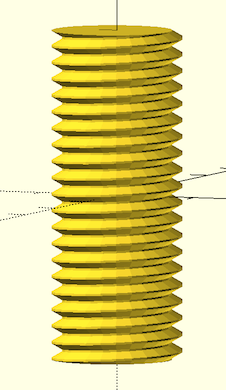
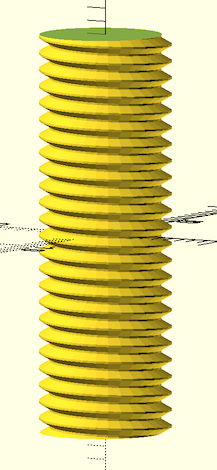
Fixed threading examples and images to match.

diff --git a/threading.scad.md b/threading.scad.md
@@ -42,11 +42,12 @@ thread\_depth | Depth of threads.  Default: pitch/2
 thread\_angle | Trapezoidal angle of threads.  Default: 15 degrees.
 starts        | The number of lead starts.  Default: 1
 left\_handed  | If true, create left-handed threads.  Default: false
+bevel         | If true, bevel the thread ends.  Default: false
 center        | If true (default), centers rod at origin.  If false, sits it on top of the XY plane.
 
 Example:
 
-	trapezoidal_threaded_rod(d=10, l=100, pitch=5, thread_depth=2, thread_angle=30);
+    trapezoidal_threaded_rod(l=25, d=10, pitch=2, thread_angle=15, starts=3, $fa=1, $fs=1);
 
 ![trapezoidal\_threaded\_rod](trapezoidal_threaded_rod.png)
 
@@ -68,14 +69,15 @@ h             | Height/Thickness of the nut.
 pitch         | Thread pitch.
 thread\_depth | Depth of threads.  Default = pitch/2
 thread\_angle | Trapezoidal angle of threads.  Default = 15 degrees.
-starts        | The number of lead starts.  Default = 1
 left\_handed  | If true, create left-handed threads.  Default = false
+starts        | The number of lead starts.  Default = 1
+bevel         | If true, bevel the threaded holes.  Default: true
 slop          | Slop to make the printed parts fit tightly.  Default = 0.2
 
 
 Examples:
 
-	trapezoidal_threaded_nut(od=17.4, id=10.5, h=10, pitch=3.175, thread_depth=1, slop=0.15);
+    trapezoidal_threaded_nut(od=17.4, id=10, h=10, pitch=2, thread_angle=15, starts=3, $fa=1, $fs=1);
 
 ![trapezoidal\_threaded\_nut](trapezoidal_threaded_nut.png)
 
@@ -94,10 +96,11 @@ d             | Outer diameter of threaded rod.
 l             | Length of threaded rod.
 pitch         | Thread pitch.
 left\_handed  | If true, create left-handed threads.  Default = false
+bevel         | If true, bevel the thread ends.  Default: false
 
 Example:
 
-	threaded_rod(d=10, l=100, pitch=5, left_handed=true);
+    threaded_rod(d=10, l=30, pitch=1.25, left_handed=true);
 
 ![threaded\_rod](threaded_rod.png)
 
@@ -113,12 +116,13 @@ id            | Diameter of threaded rod to make a nut for.
 h             | Height/Thickness of the nut.
 pitch         | Thread pitch.
 left\_handed  | If true, create left-handed threads.  Default = false
+bevel         | If true, bevel the threaded holes.  Default: false
 slop          | Slop to make the printed parts fit tightly.  Default = 0.2
 
 
 Examples:
 
-	threaded_nut(od=17.4, id=10.5, h=10, pitch=3.175, slop=0.15);
+    threaded_nut(od=16, id=8, l=8, pitch=1.25, left_handed=true, slop=0.2, $fa=1, $fs=1);
 
 ![threaded\_nut](threaded_nut.png)
 
@@ -140,10 +144,11 @@ thread\_depth | Depth of threads.  Default = pitch/2
 thread\_angle | Trapezoidal angle of threads.  Default = 14.5 degrees.
 starts        | The number of lead starts.  Default = 1
 left\_handed  | If true, create left-handed threads.  Default = false
+bevel         | If true, bevel the thread ends.  Default: false
 
 Example:
 
-	acme_threaded_rod(d=10, l=100, pitch=5, thread_depth=2, thread_angle=30);
+    acme_threaded_rod(d=10, l=40, pitch=2, starts=3, $fa=1, $fs=1);
 
 ![acme\_threaded\_rod](acme_threaded_rod.png)
 
@@ -162,12 +167,13 @@ thread\_depth | Depth of threads.  Default = pitch/2
 thread\_angle | Trapezoidal angle of threads.  Default = 14.5 degrees.
 starts        | The number of lead starts.  Default = 1
 left\_handed  | If true, create left-handed threads.  Default = false
+bevel         | If true, bevel the threaded holes.  Default: false
 slop          | Slop to make the printed parts fit tightly.  Default = 0.2
 
 
 Examples:
 
-	acme_threaded_nut(od=17.4, id=10.5, h=10, pitch=3.175, thread_depth=1, slop=0.15);
+    acme_threaded_nut(od=16, id=10, h=10, pitch=2, starts=3, slop=0.2, $fa=1, $fs=1);
 
 ![acme\_threaded\_nut](acme_threaded_nut.png)
 
@@ -186,11 +192,12 @@ d             | Outer diameter of threaded rod.
 l             | Length of threaded rod.
 pitch         | Thread pitch.
 left\_handed  | If true, create left-handed threads.  Default = false
+bevel         | If true, bevel the thread ends.  Default: false
 starts        | The number of lead starts.  Default = 1
 
 Example:
 
-	metric_trapezoidal_threaded_rod(d=10, l=100, pitch=5, left_handed=true);
+    metric_trapezoidal_threaded_rod(d=10, l=30, pitch=2, left_handed=true, $fa=1, $fs=1);
 
 ![metric\_trapezoidal\_threaded\_rod](metric_trapezoidal_threaded_rod.png)
 
@@ -206,13 +213,14 @@ id            | Diameter of threaded rod to make a nut for.
 h             | Height/Thickness of the nut.
 pitch         | Thread pitch.
 left\_handed  | If true, create left-handed threads.  Default = false
+bevel         | If true, bevel the threaded holes.  Default: false
 starts        | The number of lead starts.  Default = 1
 slop          | Slop to make the printed parts fit tightly.  Default = 0.2
 
 
 Examples:
 
-	metric_trapezoidal_threaded_nut(od=17.4, id=12, h=16, pitch=2, left_handed=true, starts=2, slop=0.15);
+    metric_trapezoidal_threaded_nut(od=16, d=10, h=10, pitch=2, left_handed=true, bevel=true, $fa=1, $fs=1);
 
 ![metric\_trapezoidal\_threaded\_nut](metric_trapezoidal_threaded_nut.png)
 
@@ -231,11 +239,12 @@ d             | Outer diameter of threaded rod.
 l             | Length of threaded rod.
 pitch         | Thread pitch.
 left\_handed  | If true, create left-handed threads.  Default = false
+bevel         | If true, bevel the thread ends.  Default: false
 starts        | The number of lead starts.  Default = 1
 
 Example:
 
-	square\_threaded_rod(d=10, l=100, pitch=5, left_handed=true, starts=3);
+    square_threaded_rod(d=10, l=30, pitch=2, starts=2, $fn=32);
 
 ![square\_threaded\_rod](square_threaded_rod.png)
 
@@ -251,13 +260,14 @@ id            | Diameter of threaded rod to make a nut for.
 h             | Height/Thickness of the nut.
 pitch         | Thread pitch.
 left\_handed  | If true, create left-handed threads.  Default = false
+bevel         | If true, bevel the threaded holes.  Default: false
 starts        | The number of lead starts.  Default = 1
 slop          | Slop to make the printed parts fit tightly.  Default = 0.2
 
 
 Examples:
 
-	square_threaded_nut(od=17.4, id=12, h=16, pitch=2, left_handed=true, starts=2, slop=0.15);
+    square_threaded_nut(od=16, id=10, h=10, pitch=2, starts=2, slop=0.15, $fn=32);
 
 ![square\_threaded\_nut](square_threaded_nut.png)
 
